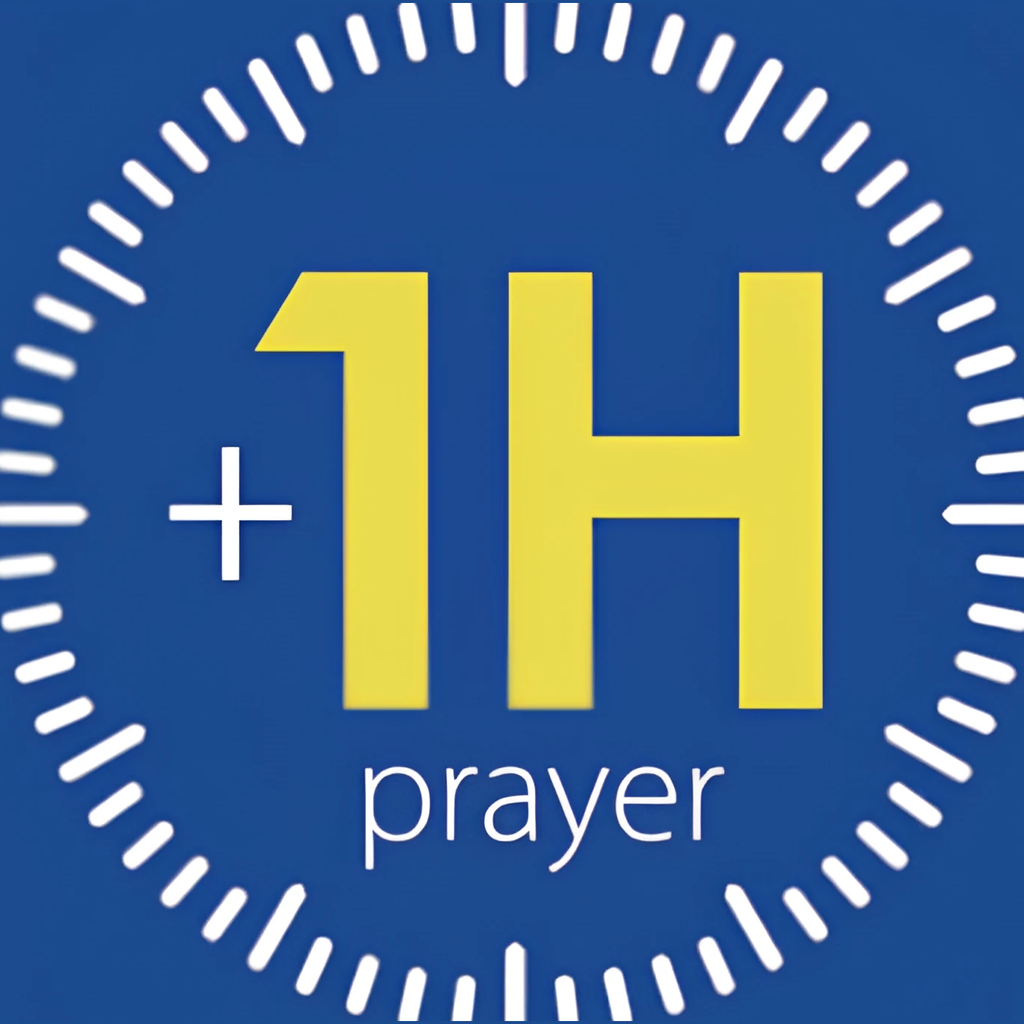
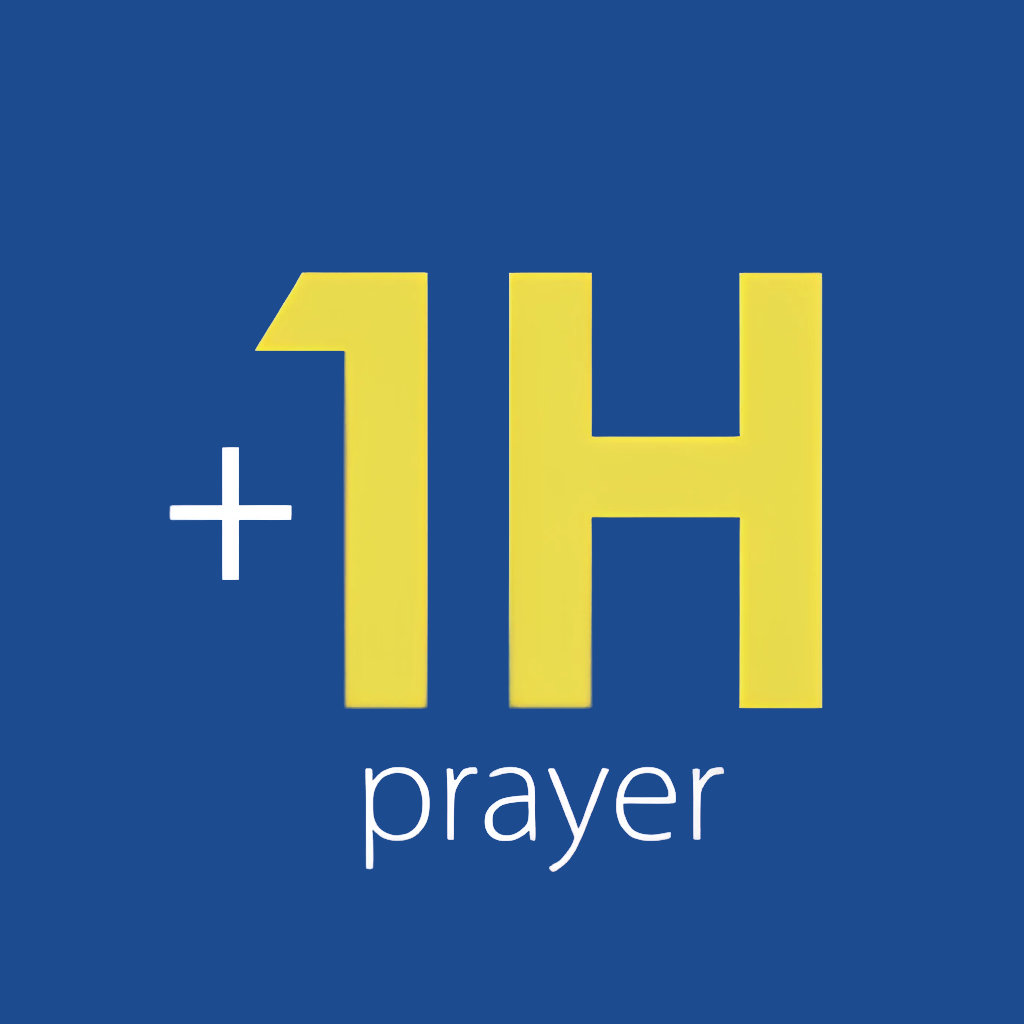
deploy: 앱 아이콘 분 눈금 제거(깔끔한 단색 배경)

diff --git a/sw.js b/sw.js
@@ -3,7 +3,7 @@
 // 빌드마다 아래 값이 바뀝니다(finish-web-build.js 가 배포 시 치환).
 // 이 파일의 내용이 배포마다 달라져야 브라우저가 새 서비스워커를 설치하고,
 // 열려 있던 앱이 자동으로 한 번 새로고침되어 최신 코드를 받습니다.
-const BUILD_ID = '20261014142243';
+const BUILD_ID = '20261015050327';
 
 // 캐시 이름에 빌드 버전을 포함해, 배포마다 이전 캐시(옛 코드)를 정리합니다.
 const CACHE = `mokyang-runtime-${BUILD_ID}`;
